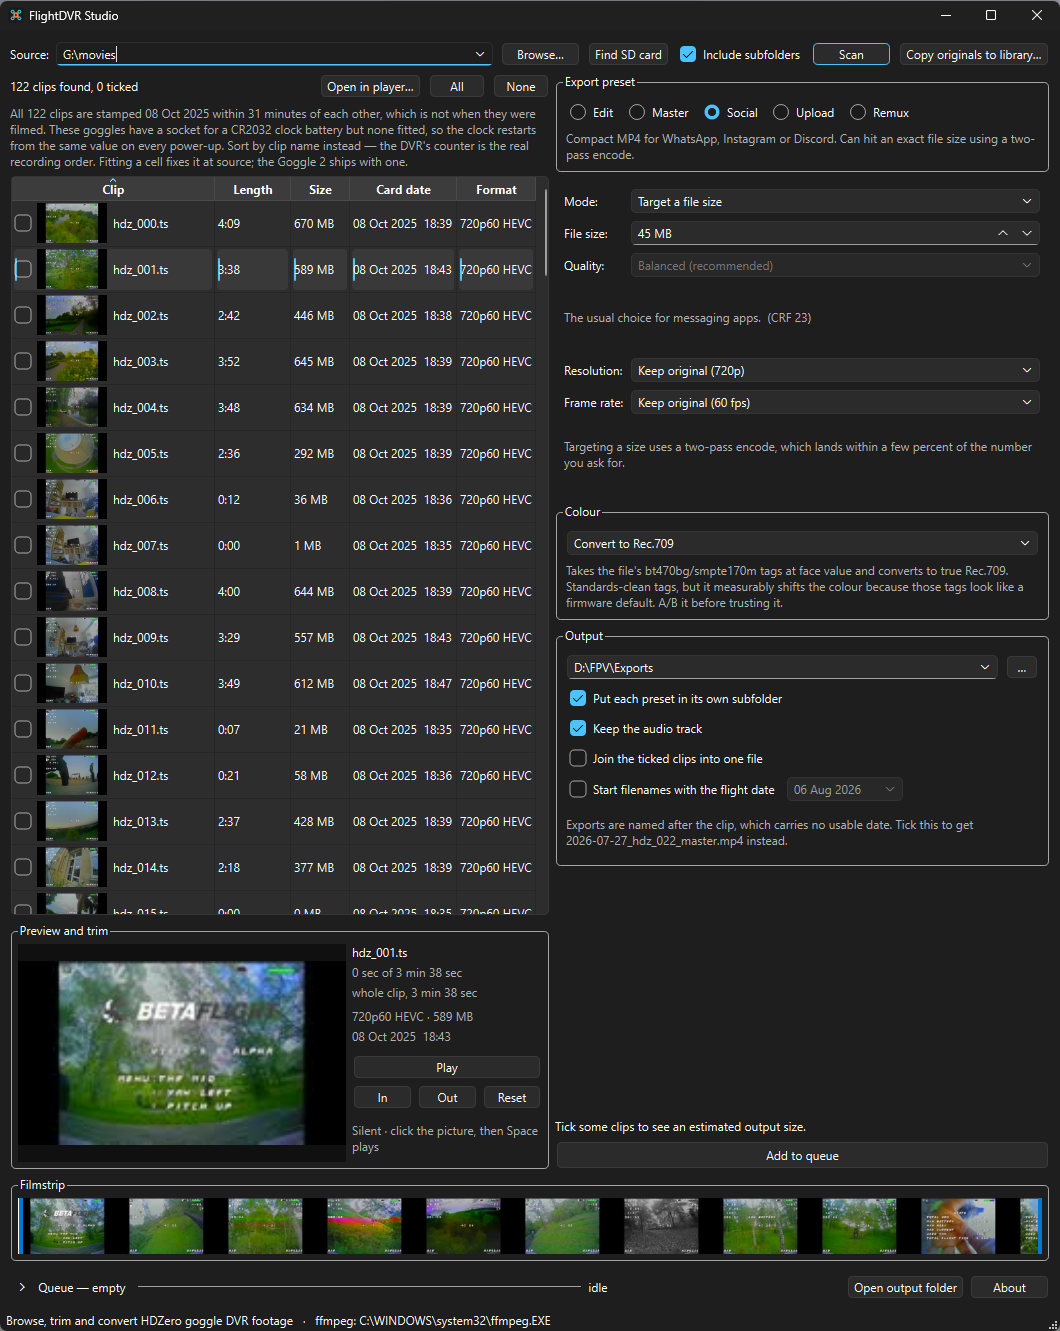
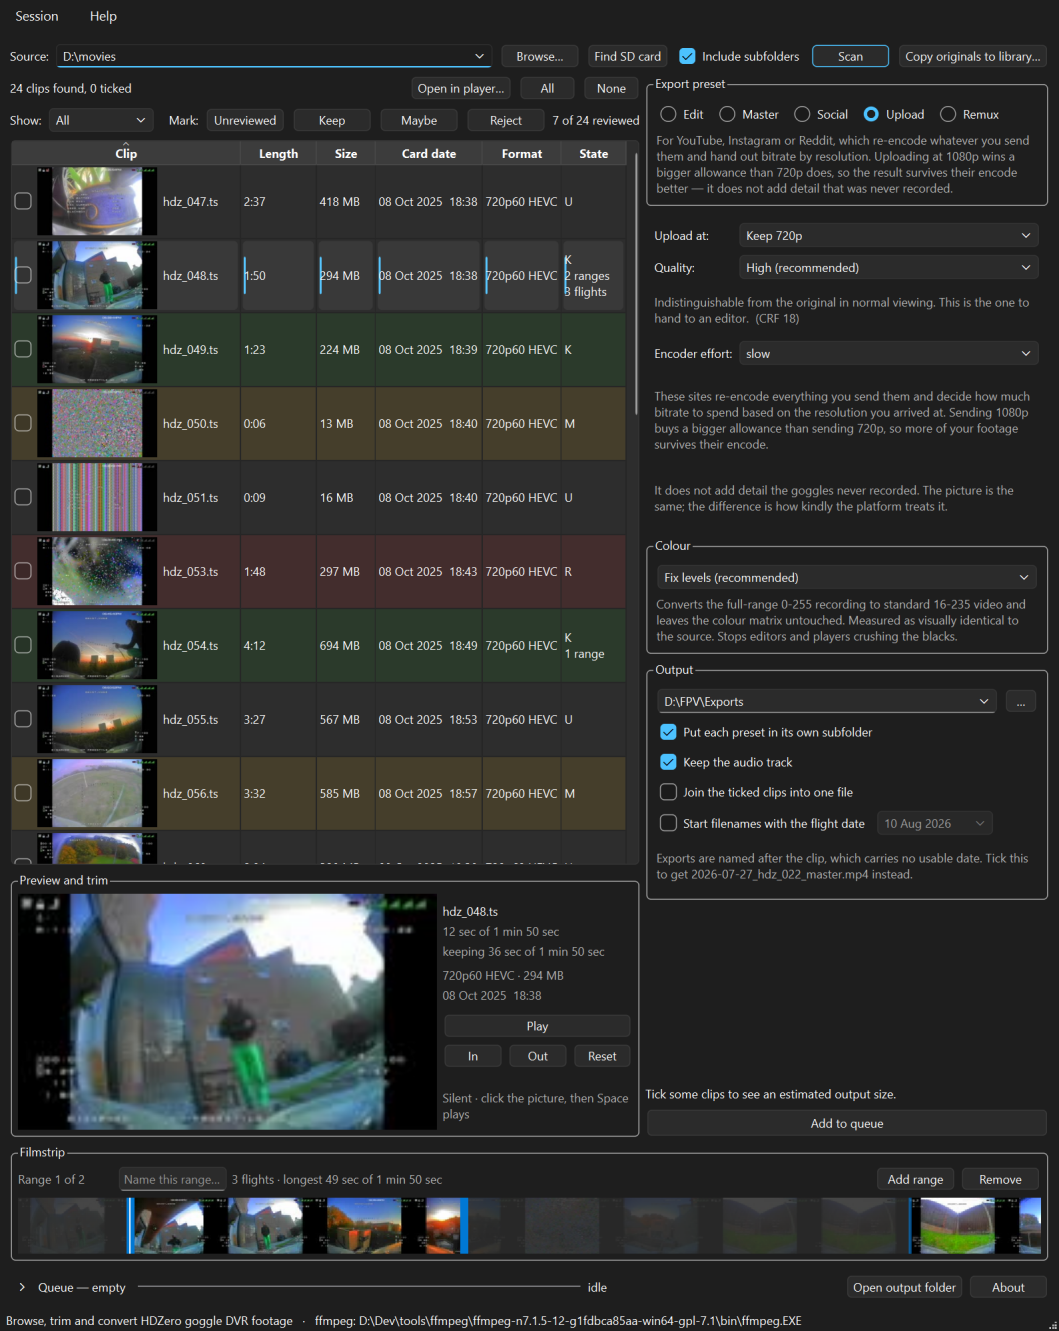
Re-shoot the browse and trim screenshots
Both were taken on 6 August, before any of the 1.5 work. The clip list is
exactly what the milestone changed, so the picture of it was the most wrong
thing in the README: no State column, no Show/Mark row, no menu bar. The
preview shot predates the multi-range row entirely, so it is a picture of a
panel missing three of its controls.

Taken natively on 24 real recordings from a card, at the same 1060x1331 as the
pair they replace. This display is 1.5x, so both were captured at 1590x1997 and
scaled down rather than rendered small.

Browse shows a card partway through a review — most rows still unreviewed,
because that is what a real one looks like — with the tints, a range count and a
flight count. Trim shows the second of three ranges being edited.

The output folder is set explicitly in the capture: this machine's saved
settings still held a pytest temporary directory, and it would have been in the
picture.

Changed region(s): [[0.0, 0.0, 0.9972, 1.0], [0.9972, 0.9857, 1.0, 1.0], [0.9972, 0.0, 1.0, 0.0308]]

diff --git a/README.md b/README.md
@@ -195,7 +195,7 @@ That is the whole loop. Everything below is detail.
 
 ## The clip browser
 
-![The clip list, with thumbnails and export settings](docs/01-browse.png)
+![The clip list, with thumbnails, review states and export settings](docs/01-browse.png)
 
 Clips are listed with a thumbnail taken from a representative frame, plus
 length, size, card date and format. Click any column heading to sort by it. The
@@ -284,7 +284,7 @@ at.
 
 ## Preview and trimming
 
-![The preview panel, showing the filmstrip and in and out points](docs/02-trim.png)
+![The preview panel, editing the second of three ranges in one recording](docs/02-trim.png)
 
 Select a clip and it loads into the preview under the list, with its filmstrip
 across the bottom of the window. **Play** runs it there — no other program, no
